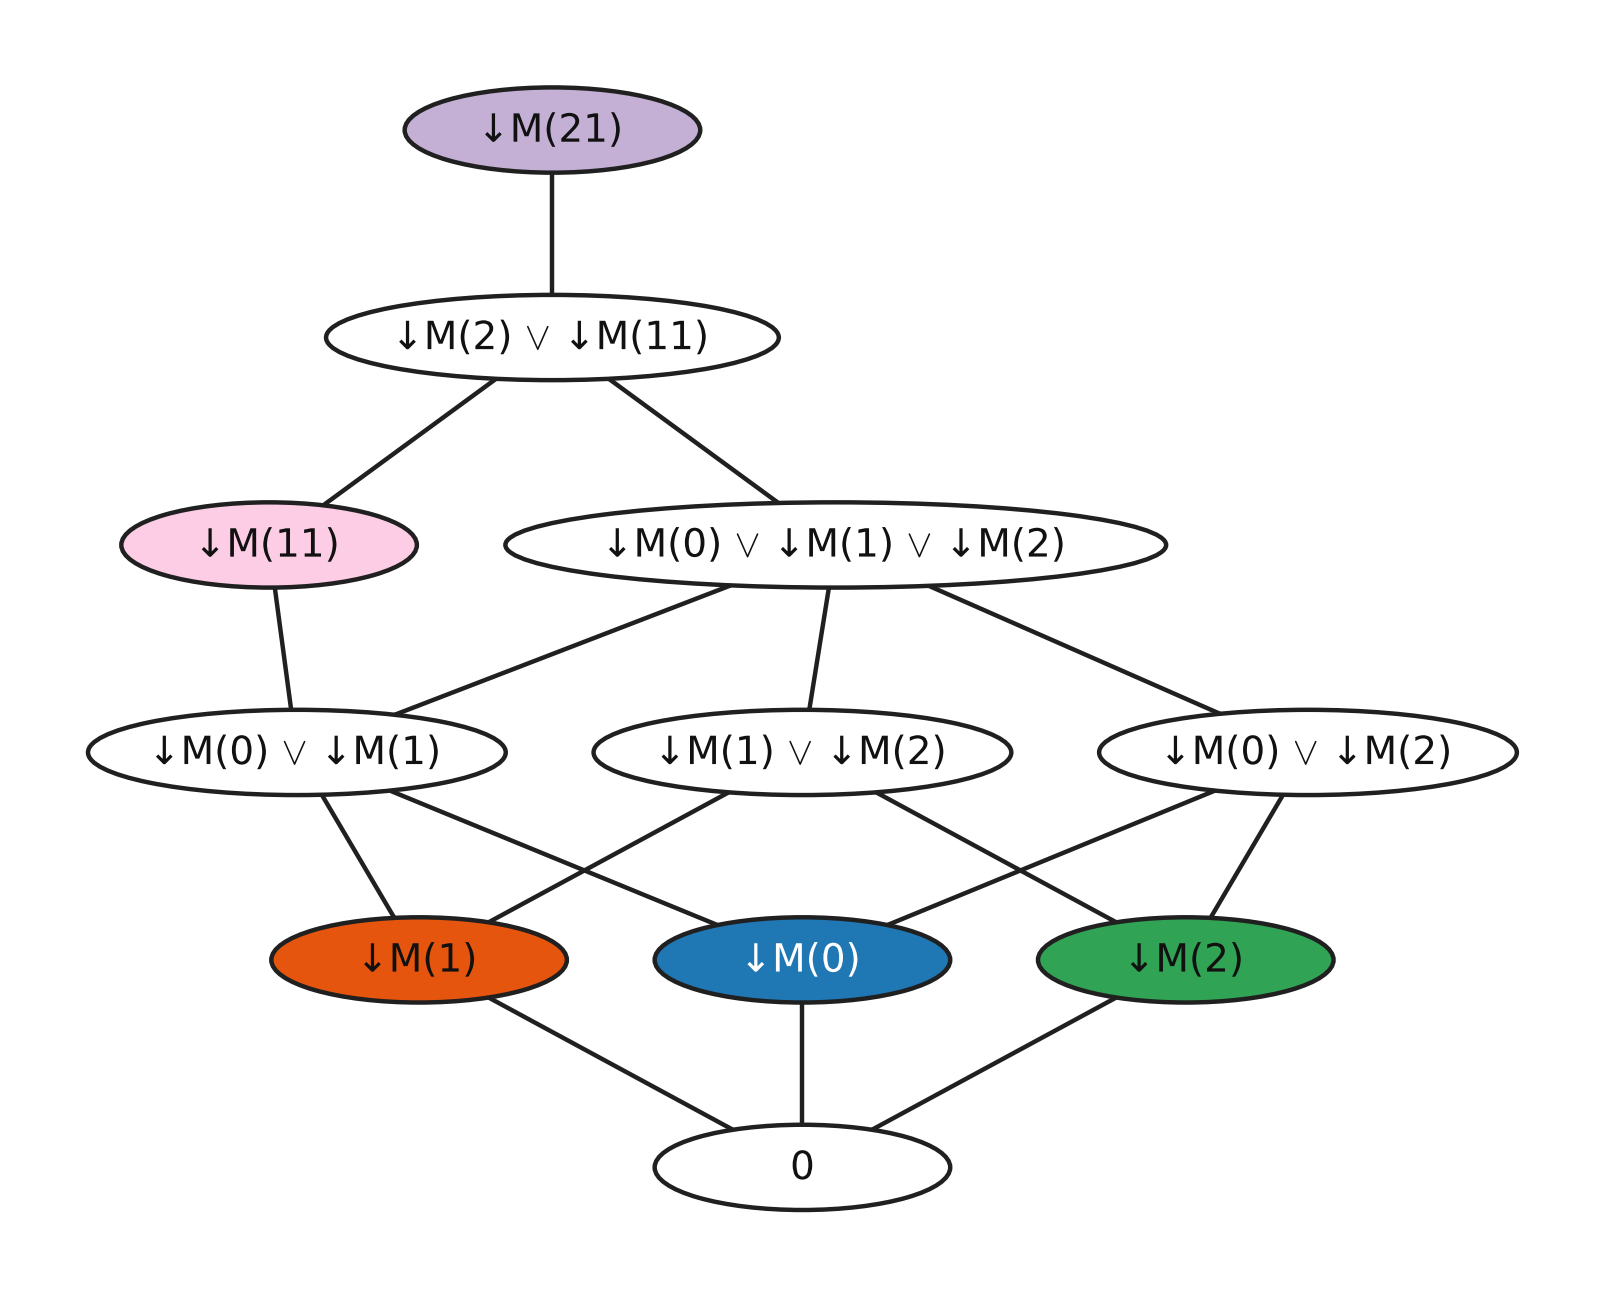
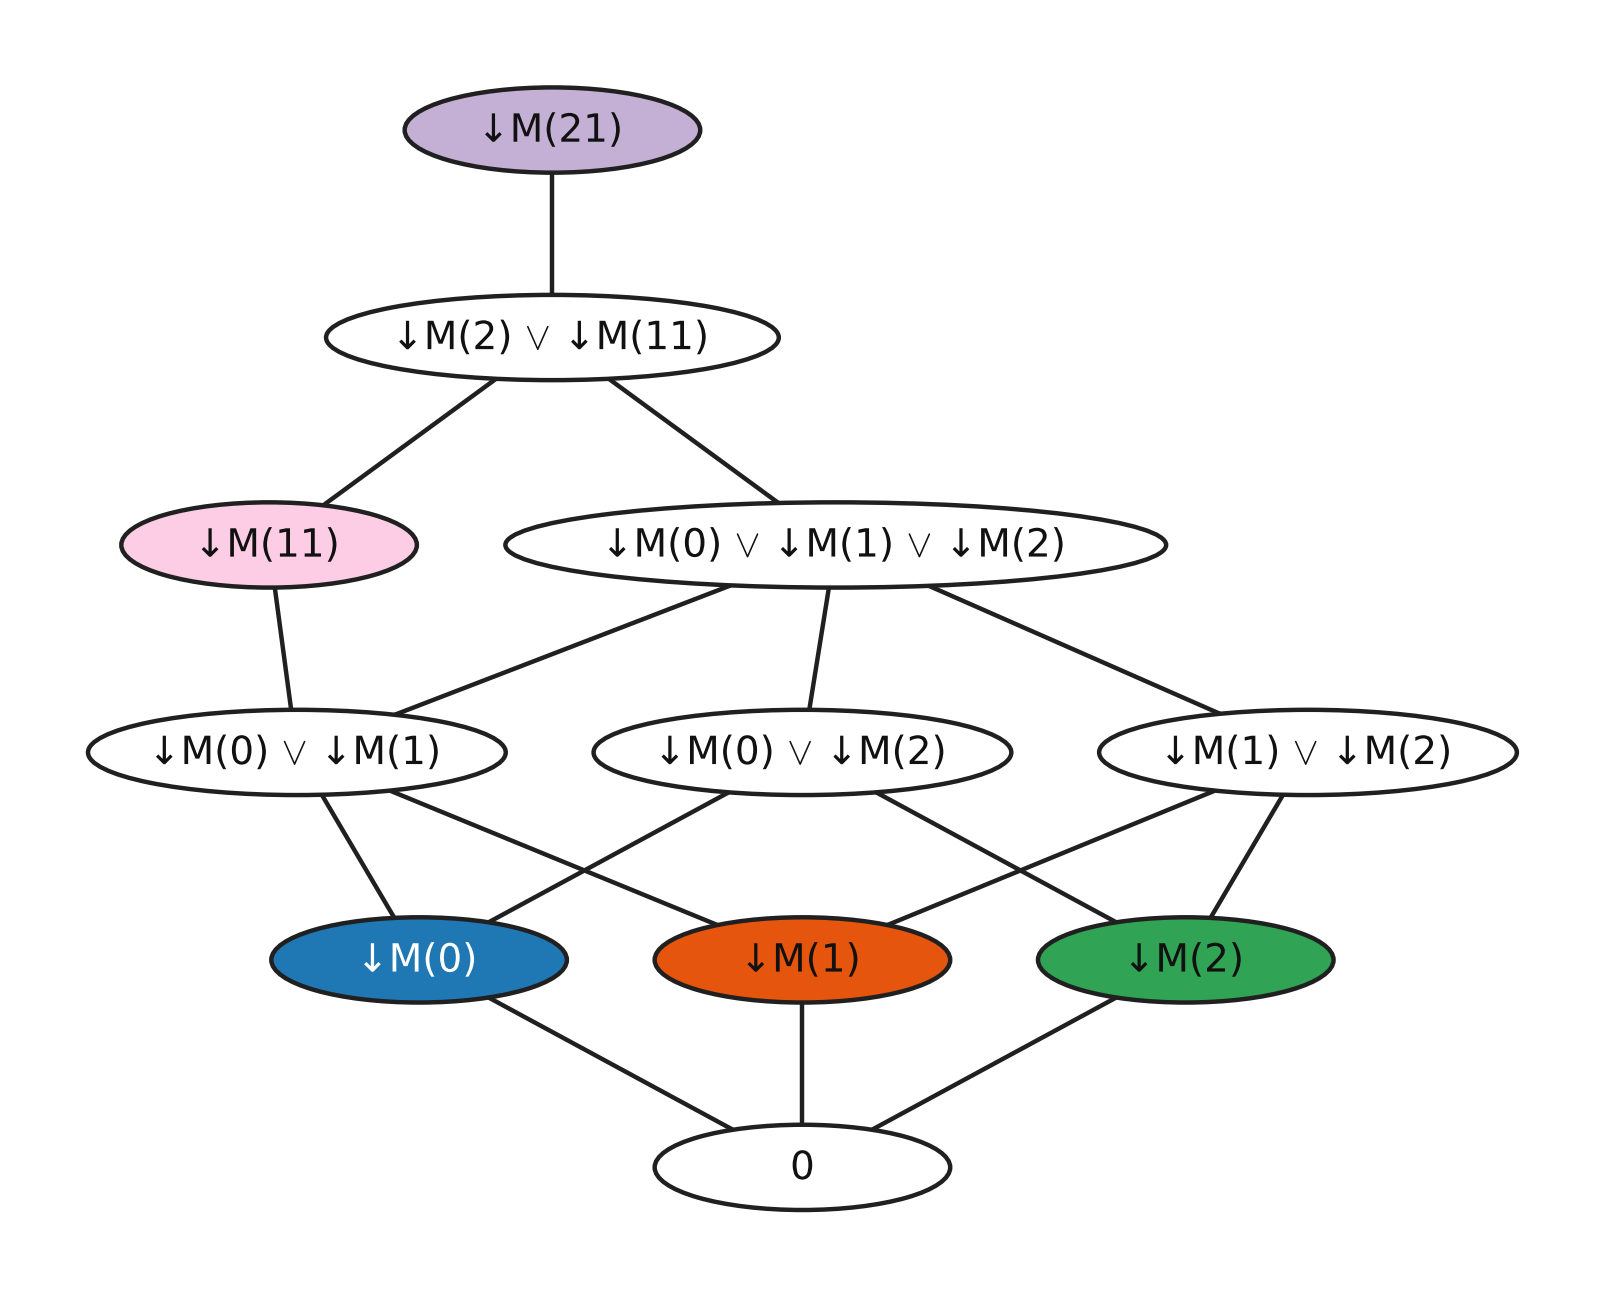
Redraw the beta = 0.76 attractor lattices with the minimal elements in order
Redraw the two oscillator runs at beta = 0.76 with demo/replot_paper_grid.py
at a0ca1ef: ↓M(0), ↓M(1), ↓M(2) now run from left to right and their joins
in the order 0∨1, 0∨2, 1∨2, with the same two crossings. Only the lattice
files and figures_replotted change; the other redrawn files differed only
in their creation dates and are left as they were. At beta = 0.8 the
ordered layout has more crossings, so that figure is unchanged.

diff --git a/figures/paper_grid/README.md b/figures/paper_grid/README.md
@@ -58,7 +58,12 @@ Each run has a JSON summary and its figures under the same stem.
   ball `tau = 0.5` 2 (1), wheel `tau = 0.5` 3 (2), neuron `tau = 1` and
   `tau = 5` 2 (1), oscillator `beta = 0.8`, `tau = 1` 15 (6, of which
   `M(3)`, `M(5)`, `M(8)` have no label), oscillator `beta = 0.76` at
-  `tau = 1` and `tau = 0.5` 11 (5).
+  `tau = 1` and `tau = 0.5` 11 (5). The two `beta = 0.76` lattices were
+  redrawn at `a0ca1ef`, with `↓M(0)`, `↓M(1)`, `↓M(2)` from left to right
+  and their joins in the order `0∨1`, `0∨2`, `1∨2`, with the same two
+  crossings; only their lattice files and `figures_replotted` changed. At
+  `beta = 0.8` the ordered layout has more crossings, so the figure is
+  unchanged.
 - `sweep-bouncing-ball/`, `sweep-rimless-wheel/`, `sweep-spiking-neuron/`,
   `sweep-impact-vdp-duffing/`: the small-`tau` sweep at `8e99989` (136 runs),
   figures in the earlier layout.
